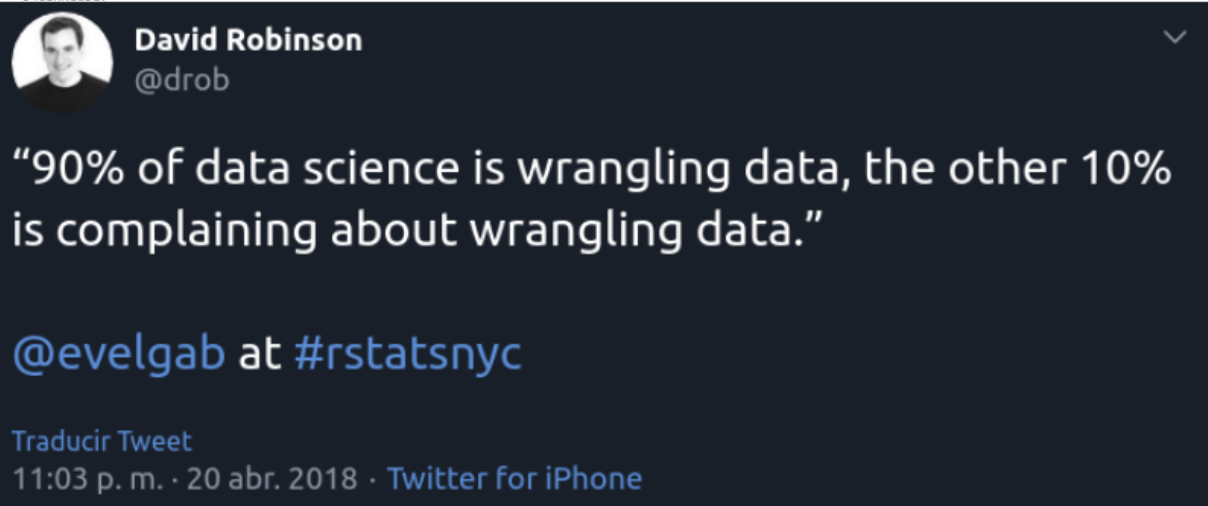
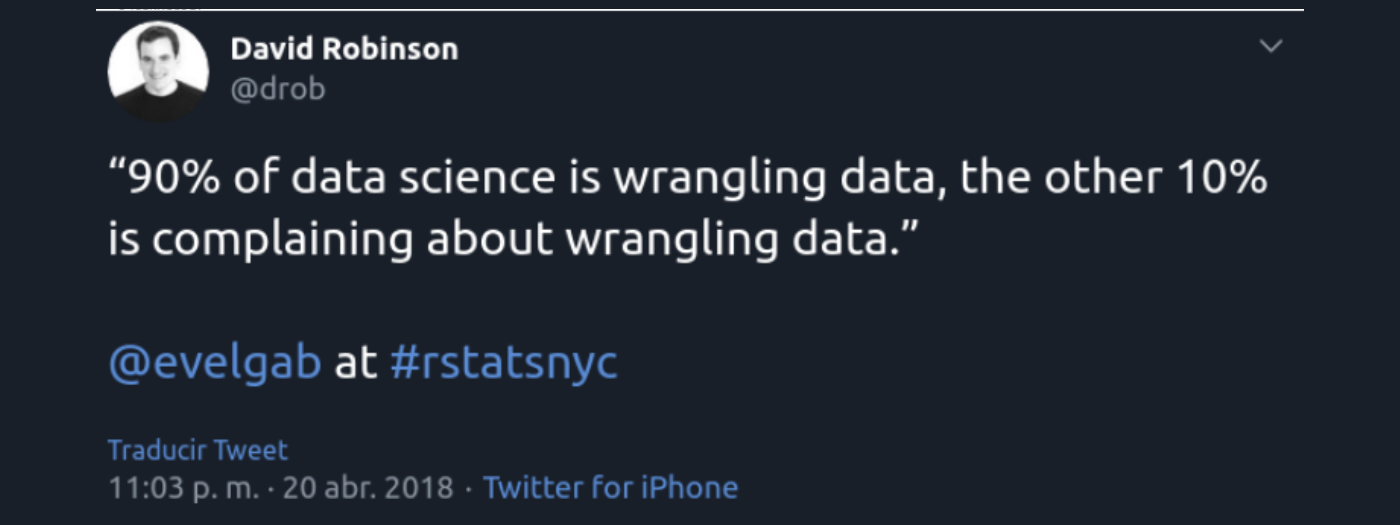
ML Part 2: full content + 11 on-brand diagrams, local headshot, dark-mode pager polish
- Restructure Part 2: merged sections, Notion-style biases, full PDF source weave-in
- Add 11 brand-locked diagrams: pipeline highlighted, numbers-with-meaning, survivorship plane, KNN scaling, four scalers, ordinal encoding, encoding score chart, ColumnTransformer, outliers, MCAR/MNAR, target-encoding boxplot, fit-transform leakage
- Switch cover to padded Robinson tweet, drop style:navy so dark-mode body theme applies
- Move headshot to /public so it loads in every page header (Home, Blog, Projects, post hero)
- Bump dark-mode pager specificity + brighter palette

diff --git a/app/globals.css b/app/globals.css
@@ -3558,14 +3558,14 @@ body.theme-dark .series-pager {
   border-top-color: rgba(148, 163, 184, 0.18);
 }
 
-body.theme-dark .series-pager__edge,
-body.theme-dark .series-pager__link,
-body.theme-dark .post-content .series-pager__edge,
-body.theme-dark .post-content .series-pager__link {
-  background: #0f172a;
-  color: #cbd5e1;
-  border-color: rgba(148, 163, 184, 0.25);
-  box-shadow: none;
+body.theme-dark .series-pager .series-pager__edge,
+body.theme-dark .series-pager .series-pager__link,
+body.theme-dark .post-content .series-pager .series-pager__edge,
+body.theme-dark .post-content .series-pager .series-pager__link {
+  background: #1e293b;
+  color: #e2e8f0;
+  border-color: rgba(148, 163, 184, 0.18);
+  box-shadow: 0 1px 2px rgba(0, 0, 0, 0.25);
 }
 
 body.theme-dark a.series-pager__edge:hover,
@@ -3577,12 +3577,12 @@ body.theme-dark .post-content a.series-pager__link:hover {
   border-color: rgba(96, 165, 250, 0.5);
 }
 
-body.theme-dark .series-pager__item--current .series-pager__link,
-body.theme-dark .post-content .series-pager__item--current .series-pager__link {
-  background: #2563eb;
-  border-color: #2563eb;
+body.theme-dark .series-pager .series-pager__item--current .series-pager__link,
+body.theme-dark .post-content .series-pager .series-pager__item--current .series-pager__link {
+  background: #3b82f6;
+  border-color: #3b82f6;
   color: #ffffff;
-  box-shadow: 0 2px 10px rgba(37, 99, 235, 0.35);
+  box-shadow: 0 2px 10px rgba(59, 130, 246, 0.4);
 }
 
 body.theme-dark .series-pager__edge--disabled,

diff --git a/components/PageHero.tsx b/components/PageHero.tsx
@@ -15,7 +15,7 @@ export default function PageHero({ title, subtitle, icon }: PageHeroProps) {
         <Link className="page-hero__avatarLink" href="/" aria-label="Home">
           <Image
             className="page-hero__avatar"
-            src="https://raw.githubusercontent.com/maria-aguilera/portfolio-assets/refs/heads/master/maria-headshot.png"
+            src="/maria-headshot.png"
             alt="Maria Aguilera Garcia"
             width={64}
             height={64}

diff --git a/components/HomeHero.tsx b/components/HomeHero.tsx
@@ -48,7 +48,7 @@ export default function HomeHero() {
             <div className="hero__photoFrame">
               <Image
                 className="hero__photo"
-                src="https://raw.githubusercontent.com/maria-aguilera/portfolio-assets/refs/heads/master/maria-headshot.png"
+                src="/maria-headshot.png"
                 alt="Maria Aguilera García"
                 width={256}
                 height={256}
